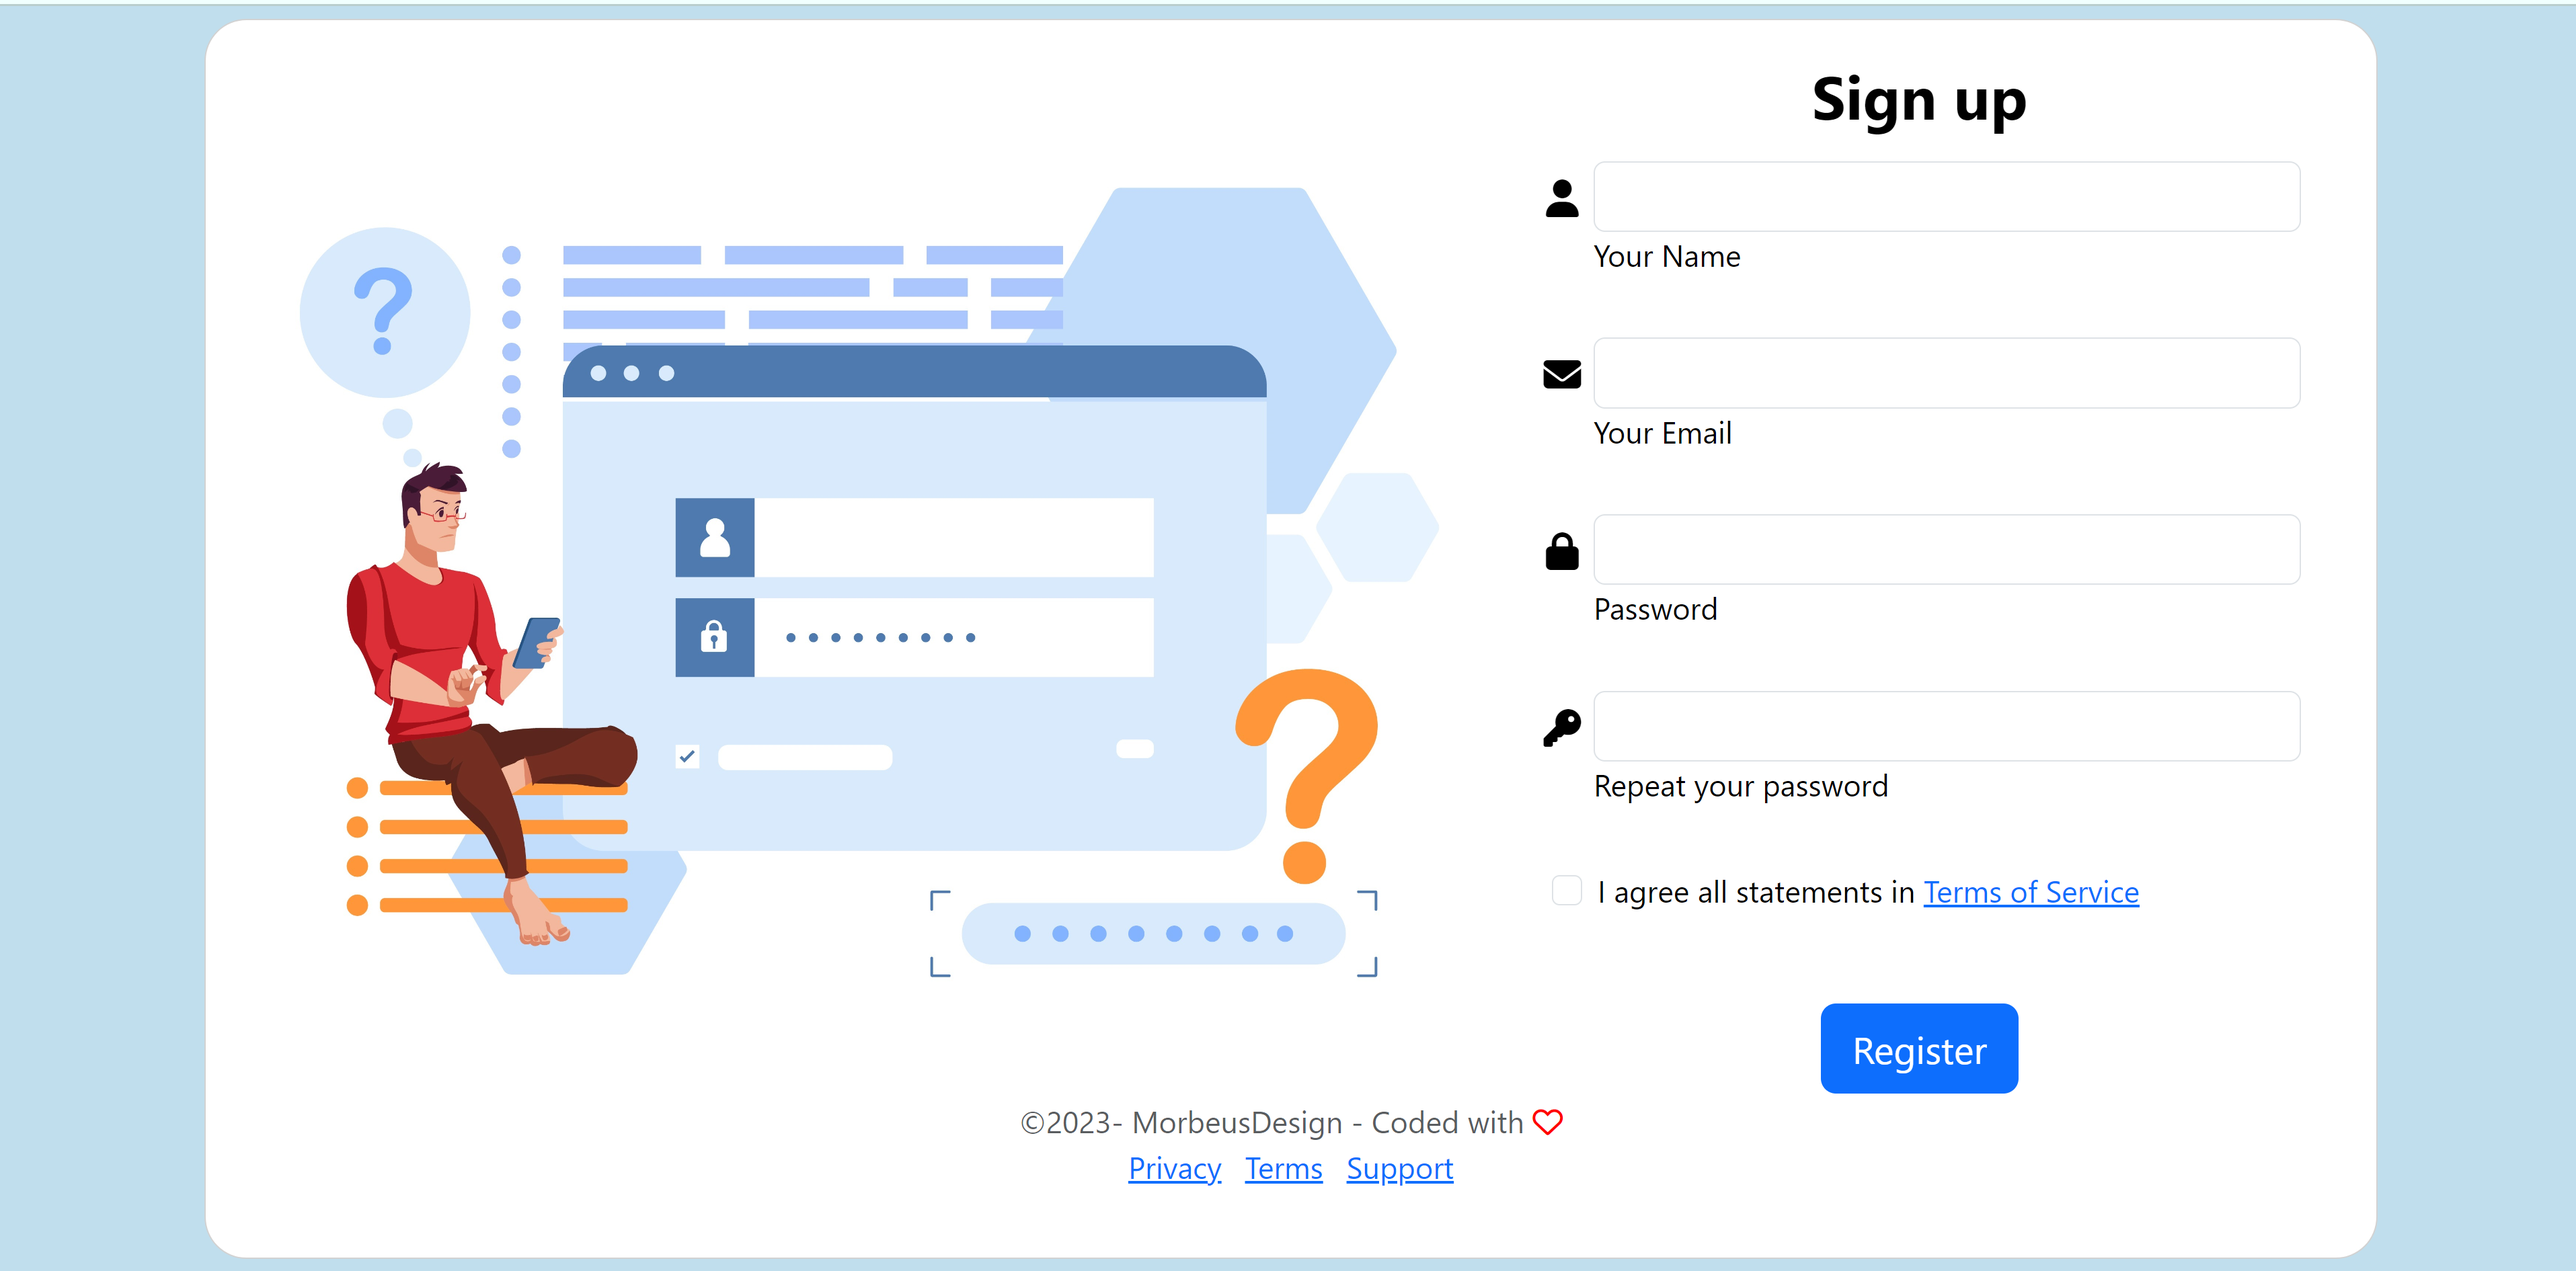
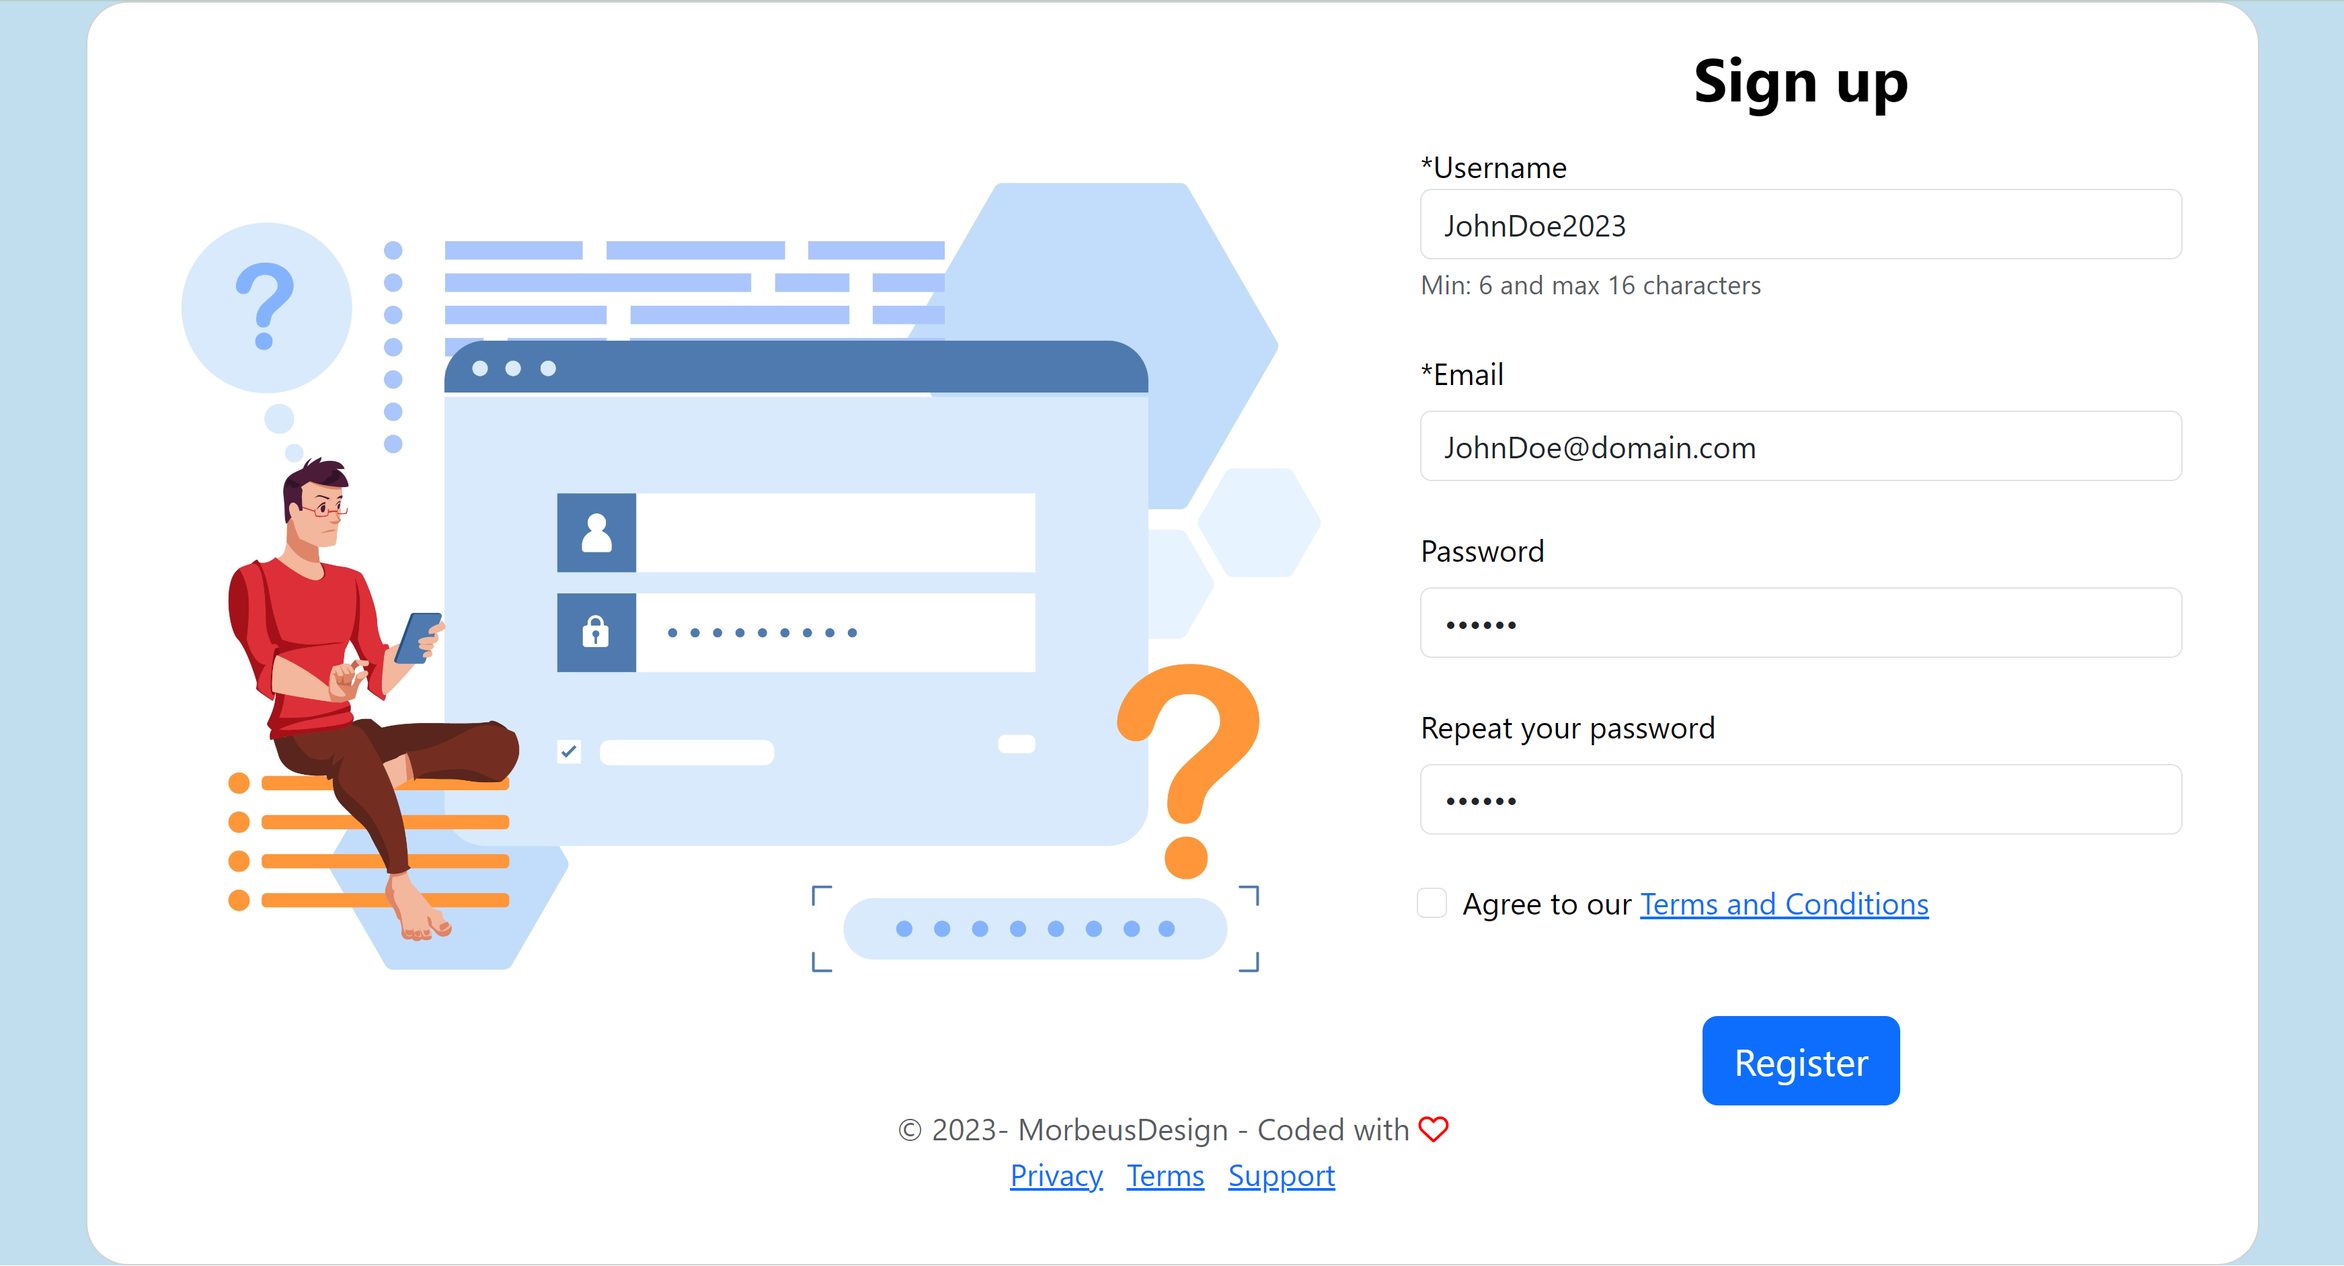
BootStrap Validator Added

diff --git a/script.js b/script.js
@@ -1,0 +1,18 @@
+(() => {
+    'use strict'
+  
+    // Fetch all the forms we want to apply custom Bootstrap validation styles to
+    const forms = document.querySelectorAll('.needs-validation')
+  
+    // Loop over them and prevent submission
+    Array.from(forms).forEach(form => {
+      form.addEventListener('submit', event => {
+        if (!form.checkValidity()) {
+          event.preventDefault()
+          event.stopPropagation()
+        }
+  
+        form.classList.add('was-validated')
+      }, false)
+    })
+  })()

diff --git a/SignUpForm.php b/SignUpForm.php
@@ -1,3 +1,56 @@
+
+
+<?php
+
+define('REQUIRED_FIELD_ERROR', 'This field is required');
+
+$errors = [];
+$username = '';
+$email = '';
+$password = '';
+$password_confirm = '';
+$postData = [];
+
+if ($_SERVER['REQUEST_METHOD'] === 'POST') {
+    $username = post_data('username');
+    $email = post_data('email');
+    $password = post_data('password');
+    $password_confirm = post_data('password_confirm');
+
+    if (!$username) {
+        $errors['username'] = REQUIRED_FIELD_ERROR;
+    } else if (strlen($username) < 6 || strlen($username) > 16){
+        $errors['username'] = 'Username must be less than 16 and more than 6 chars';
+    }
+    if (!$email) {
+        $errors['email'] = REQUIRED_FIELD_ERROR;
+    } else if (!filter_var($email, FILTER_VALIDATE_EMAIL)){
+        $errors['email'] = 'Please enter valid email address';
+    }
+    if (!$password) {
+        $errors['password'] = REQUIRED_FIELD_ERROR;
+    }
+    if (!$password_confirm) {
+        $errors['password_confirm'] = REQUIRED_FIELD_ERROR;
+    }
+    if ($password && $password_confirm && strcmp($password, $password_confirm) !== 0){
+        $errors['password_confirm'] = 'Please repeat the password correctly';
+    }
+
+}
+
+function post_data($field)
+{
+    if (!isset($_POST[$field])) {
+        return false;
+    }
+    $data = $_POST[$field];
+    return htmlspecialchars(stripslashes(trim($data)));
+}
+
+
+?>
+
 <!DOCTYPE html>
 <html lang="en">
 <head>
@@ -10,9 +63,9 @@
 </head>
 
 <body>
-    <section class="vh-100" style="background-color: #c0deed;">
-        <div class="container h-100">
-            <div class="row h-100 d-flex justify-content-center align-items-center">
+    <section  style="background-color: #c0deed;">
+        <div class="container-lg">
+            <div class="row d-flex justify-content-center align-items-center">
                 <div class="col-xl-12 col-lg 12 col-md-12">
                     <div class="card text-black" style="border-radius: 25px;">
                         <div class="card-body pb-3 pt-3 mb-1 ">
@@ -20,48 +73,65 @@
                                 <div class="col-md-10 col-lg-6 col-xl-5 order-2">
 
                                     <p class="text-center h2 fw-bold mb-3 mx-1 mx-md-4 mt-1">Sign up</p>
-
-                                    <form class="mx-1 mx-md-4">
+                                 
+                                    <form class="mx-1 mx-md-4 needs-validation" novalidate action="<?php echo $_SERVER['PHP_SELF'] ?>" method="post">
 
                                         <div class="d-flex flex-row align-items-center mb-4">
-                                            <i class="fas fa-user fa-lg me-1 fa-fw" style="height:35px"></i>
-                                            <div class="form-outline flex-fill mb-0">
-                                            <input type="text" id="form3Example1c" class="form-control" />
-                                            <label class="form-label" for="form3Example1c">Your Name</label>
+                                            <div class="form-group form-outline flex-fill mb-0">
+                                                <label type="text" class="control-label"><span class="asteriskField">*</span>Username</label>
+                                                <input class="form-control <?php echo isset($errors['username']) ? 'is-invalid' : '' ?>"
+                                                    name="username" value="<?php echo $username ?>">
+                                                 <small class="form-text text-muted">Min: 6 and max 16 characters</small>
+                                                <div class="invalid-feedback">
+                                                    <?php echo $errors['username'] ?? '' ?>
+                                                </div>
                                             </div>
                                         </div>
 
                                         <div class="d-flex flex-row align-items-center mb-4">
-                                            <i class="fas fa-envelope fa-lg me-1 fa-fw" style="height:35px"></i>
                                             <div class="form-outline flex-fill mb-0">
-                                            <input type="email" id="form3Example3c" class="form-control" />
-                                            <label class="form-label" for="form3Example3c">Your Email</label>
+                                                <label type="email" class="form-label"><span class="asteriskField">*</span>Email</label>
+                                                <input type="email" class="form-control <?php echo isset($errors['email']) ? 'is-invalid' : '' ?>"
+                                                    name="email" value="<?php echo $email ?>">
+                                                <div class="invalid-feedback">
+                                                    <?php echo $errors['email'] ?? '' ?>
+                                                </div>
                                             </div>
                                         </div>
 
                                         <div class="d-flex flex-row align-items-center mb-4">
-                                            <i class="fas fa-lock fa-lg me-1 fa-fw" style="height:35px"></i>
                                             <div class="form-outline flex-fill mb-0">
-                                            <input type="password" id="form3Example4c" class="form-control" />
-                                            <label class="form-label" for="form3Example4c">Password</label>
+                                                <label class="form-label">Password</label>
+                                                <input type="password" class="form-control <?php echo isset($errors['password']) ? 'is-invalid' : '' ?>"
+                                                    name="password" value="<?php echo $password ?>">
+                                                <div class="invalid-feedback">
+                                                    <?php echo $errors['password'] ?? '' ?>
+                                                </div>
                                             </div>
                                         </div>
 
                                         <div class="d-flex flex-row align-items-center mb-4">
-                                            <i class="fas fa-key fa-lg me-1 fa-fw" style="height:35px"></i>
                                             <div class="form-outline flex-fill mb-0">
-                                            <input type="password" id="form3Example4cd" class="form-control" />
-                                            <label class="form-label" for="form3Example4cd">Repeat your password</label>
+                                                    <label class="form-label">Repeat your password</label>
+                                                    <input type="password"
+                                                    class="form-control <?php echo isset($errors['password_confirm']) ? 'is-invalid' : '' ?>"
+                                                    name="password_confirm" value="<?php echo $password_confirm ?>">
+                                                <div class="invalid-feedback">
+                                                    <?php echo $errors['password_confirm'] ?? '' ?>
+                                                </div>
                                             </div>
                                         </div>
 
-                                        <div class="form-check mb-5" style="padding-left: 35px;">
-                                            <input type="checkbox" class="form-check-input" id="same-address">
-                                            <label class="form-check-label" for="same-address">I agree all statements in <a href="#!">Terms of Service</a></label>
+                                        <div class="form-check mb-5" style="padding-left: 25px;">
+                                        <input class="form-check-input" type="checkbox" value="" id="invalidCheck" required>
+                                            <label class="form-check-label" for="invalidCheck" >Agree to our <a href="#!"> Terms and Conditions</a></label>
+                                            <div class="invalid-feedback fw-bold fs-5 bg-danger text-dark">
+                                                 -> You must agree before submitting!
+                                            </div>
                                         </div>
 
-                                        <div class="d-flex justify-content-center mx-4 mb-0 mb-lg-0">
-                                            <button type="button" class="btn btn-primary btn-lg">Register</button>
+                                        <div class="form-group d-flex justify-content-center mx-4 mb-0 mb-lg-0">
+                                            <button class="btn btn-primary btn-lg">Register</button>
                                         </div>
 
                                     </form>
@@ -77,7 +147,7 @@
                             </div>
                             
                             <footer class="mx-auto text-muted text-center text-small">
-                                <p class="mb-0">&copy;<?php echo date("Y"); ?>- MorbeusDesign - Coded with <i class="fa-regular fa-heart" style="font-size:18px;color:red"></i></p>
+                                <p class="mb-0">&copy <?php echo date("Y"); ?>- MorbeusDesign - Coded with <i class="fa-regular fa-heart" style="font-size:18px;color:red"></i></p>
                                 <ul class="list-inline mb-3">
                                 <li class="list-inline-item"><a href="#">Privacy</a></li>
                                 <li class="list-inline-item"><a href="#">Terms</a></li>
@@ -92,6 +162,7 @@
             </div>   
         </div>
     </section>
+    <script src="script.js"></script>
 </body>
-</html>
+</html> 
 
